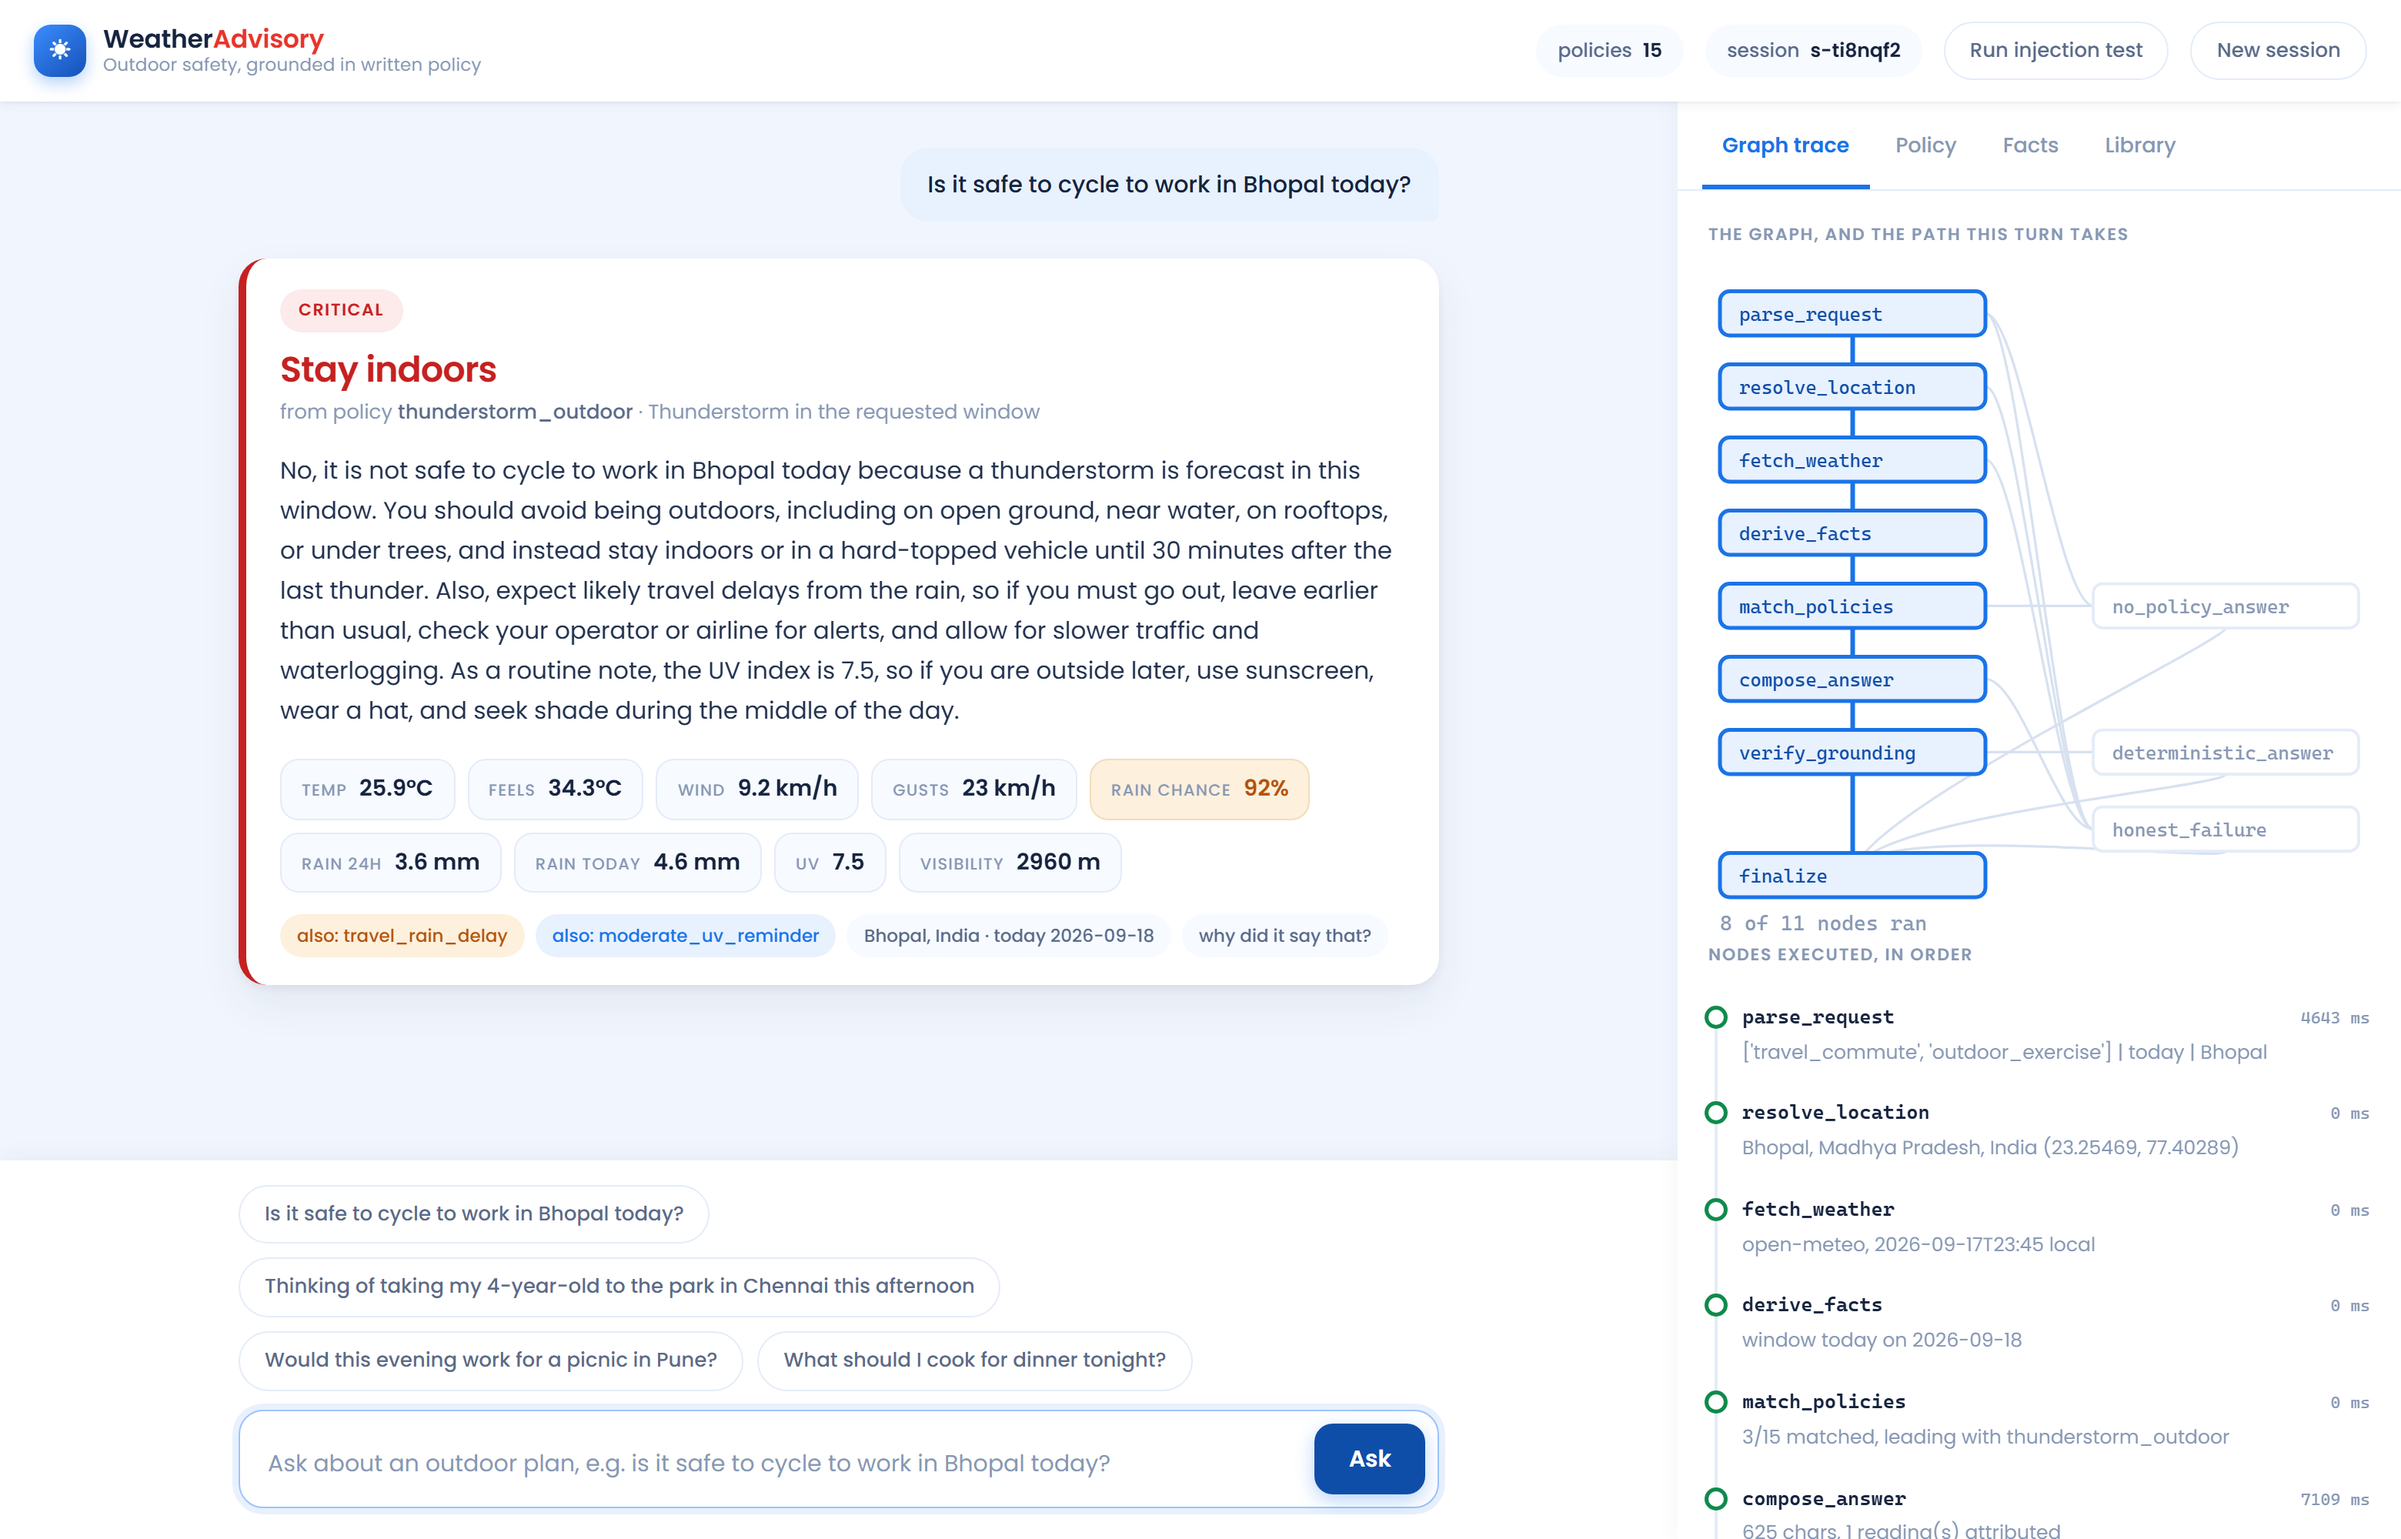
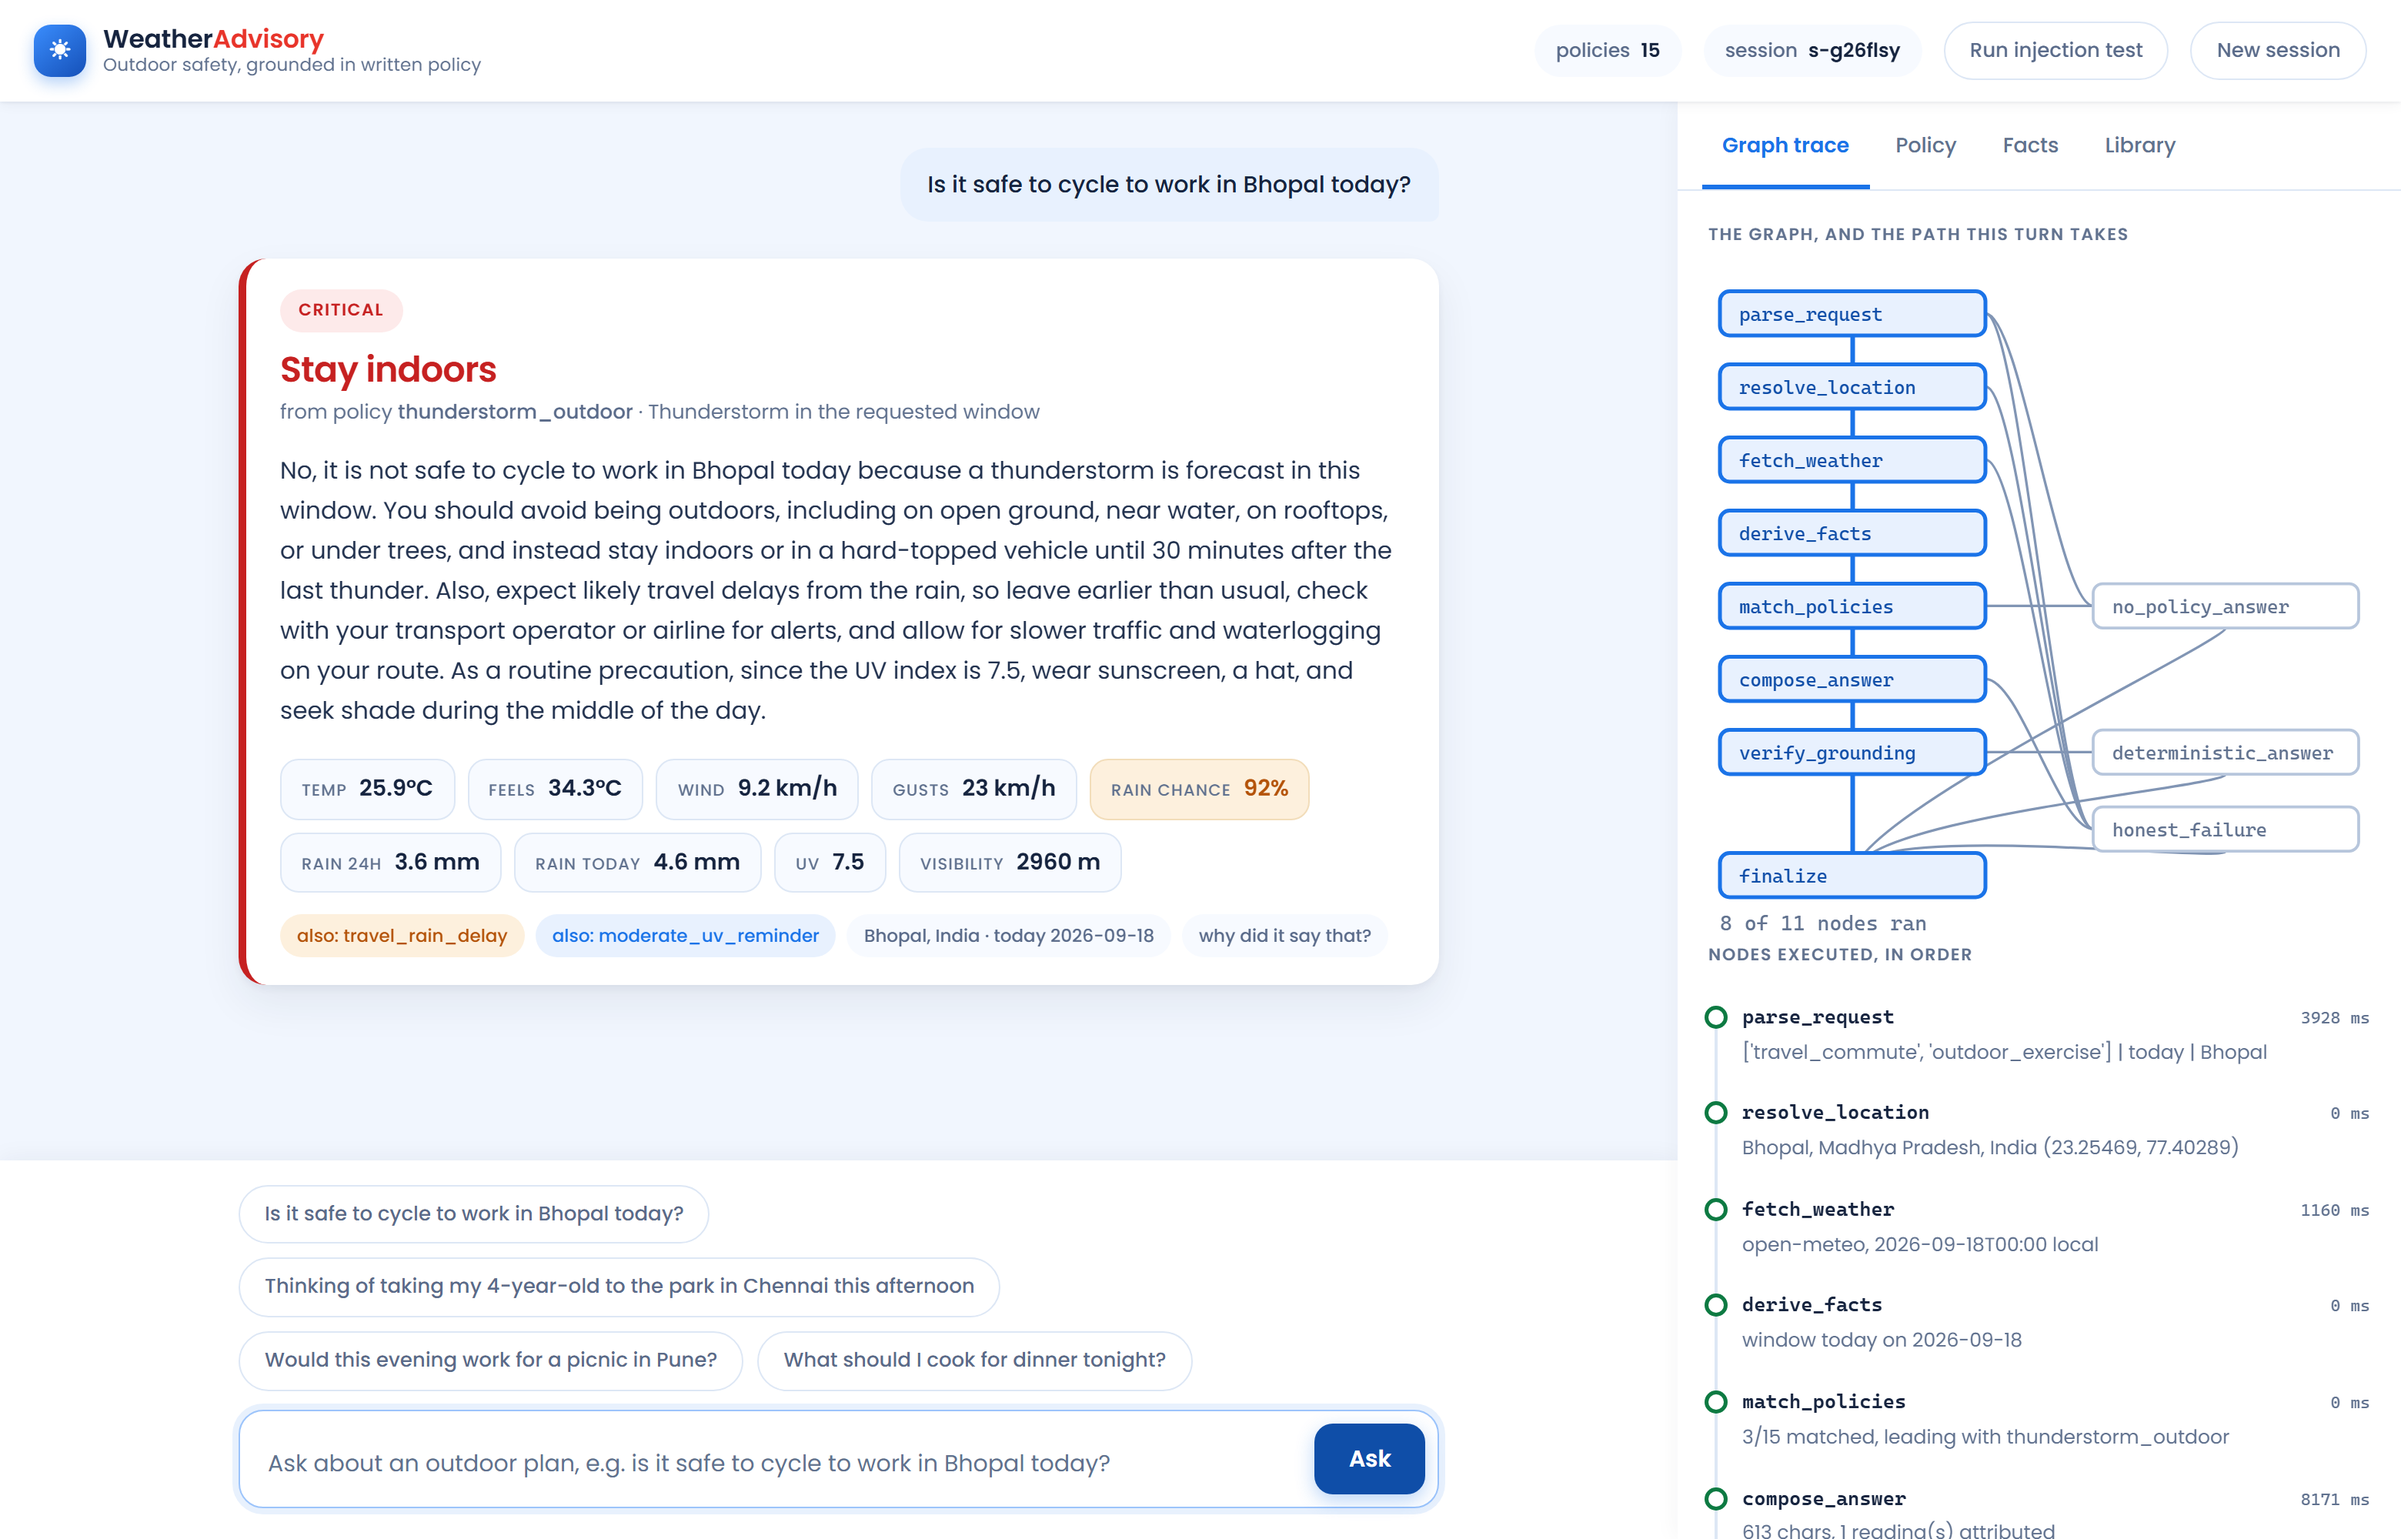
Raise text contrast to WCAG AA across the light theme
Measured rather than eyeballed, and six tokens were failing. The worst was the
neutral used for every caption, chip label, tab and graph node name, at 2.92:1
on white against a 4.5:1 requirement - it looked fine and was not.

Darkened within the same blue-grey family rather than toward grey, so the
MediBuddy neutral character survives:

  captions and labels   2.92 -> 4.87   (4.66 on the raised surface)
  PASS marker           4.41 -> 5.41
  unlit graph edge      1.32 -> 3.05
  unlit node outline    1.24 -> 1.73

Also firmed up the chart baseline, the window-band edges and the disabled send
button, which were decorative but too faint to read as anything.

Every token now meets 4.5:1 for text and 3:1 for graphical objects. The unlit
graph edges are deliberately the one judgement call: they are darker than is
strictly restful, because they carry structure, and they stay recessive against
the lit path through weight and hue rather than through being nearly invisible.

diff --git a/web/index.html b/web/index.html
@@ -14,17 +14,17 @@
   --bg: #f1f6fe;
   --surface: #ffffff;
   --raised: #f7faff;
-  --line: #e4ecf8;
+  --line: #dde7f5;
   --line-soft: #eef3fb;
   --text: #16243f;
   --muted: #5a6b8a;
-  --dim: #8798b4;
+  --dim: #61728f;
   --brand: #1a73e8;
   --brand-deep: #0f4ea8;
   --brand-wash: #e8f1fe;
   --coral: #e8342a;
   --info: #1a73e8;
-  --low: #0f8a4c;
+  --low: #0d7a42;
   --moderate: #b45309;
   --high: #d1500a;
   --critical: #c62121;
@@ -159,7 +159,7 @@ textarea::placeholder { color: var(--dim); }
   box-shadow: 0 4px 12px rgba(26,115,232,.3); transition: 140ms;
 }
 .send:hover:not(:disabled) { background: var(--brand-deep); }
-.send:disabled { background: #c6d6ec; box-shadow: none; cursor: not-allowed; }
+.send:disabled { background: #aebfd8; box-shadow: none; cursor: not-allowed; }
 .suggestions { display: flex; flex-wrap: wrap; gap: 9px; margin-bottom: 12px; }
 .suggestions button {
   border: 1px solid var(--line); background: var(--surface); color: var(--muted);
@@ -197,7 +197,7 @@ aside { display: grid; grid-template-rows: auto 1fr; min-height: 0; background: 
 }
 .step-row.branch::before { box-shadow: 0 0 0 2.5px var(--moderate); }
 .step-row.error::before  { box-shadow: 0 0 0 2.5px var(--critical); }
-.step-row.pending::before { box-shadow: 0 0 0 2.5px #c4d2e6; animation: pulse 1s infinite; }
+.step-row.pending::before { box-shadow: 0 0 0 2.5px #9badc9; animation: pulse 1s infinite; }
 .step-head { display: flex; align-items: baseline; justify-content: space-between; gap: 10px; }
 .step-head .sname { font-family: var(--mono); font-size: 13px; font-weight: 500; }
 .step-row.error .sname { color: var(--critical); }
@@ -209,7 +209,7 @@ aside { display: grid; grid-template-rows: auto 1fr; min-height: 0; background: 
 .fact { background: var(--raised); border: 1px solid var(--line); border-radius: 14px; padding: 12px 14px; }
 .fact .k { color: var(--dim); font-size: 10.5px; text-transform: uppercase; letter-spacing: .06em; font-weight: 600; }
 .fact .v { font-size: 20px; font-variant-numeric: tabular-nums; font-weight: 600; margin-top: 3px; }
-.fact .src { color: #a3b1c8; font-size: 11px; margin-top: 4px; line-height: 1.4; }
+.fact .src { color: var(--dim); font-size: 11px; margin-top: 4px; line-height: 1.4; }
 
 .policy { border: 1px solid var(--line); border-radius: 14px; margin-bottom: 11px; overflow: hidden; background: var(--surface); }
 .policy > summary { padding: 13px 15px; cursor: pointer; list-style: none; display: flex; gap: 10px; align-items: center; }
@@ -220,9 +220,9 @@ aside { display: grid; grid-template-rows: auto 1fr; min-height: 0; background: 
 .policy .guidance { color: var(--muted); font-size: 13.5px; margin: 12px 0; line-height: 1.6; }
 .cond { font-family: var(--mono); font-size: 12.5px; padding: 4px 0; color: var(--muted); }
 .cond.ok::before { content: "PASS "; color: var(--low); font-weight: 600; }
-.cond.no::before { content: "FAIL "; color: #b9c5d8; font-weight: 600; }
+.cond.no::before { content: "FAIL "; color: var(--dim); font-weight: 600; }
 .cond .group { color: var(--dim); }
-.indent { padding-left: 18px; border-left: 2px solid var(--line-soft); margin-left: 4px; }
+.indent { padding-left: 18px; border-left: 2px solid #dde7f5; margin-left: 4px; }
 
 .editor { display: grid; gap: 12px; }
 .editor textarea {
@@ -265,9 +265,9 @@ dialog::backdrop { background: rgba(22,36,63,.45); backdrop-filter: blur(2px); }
 .viz svg { display: block; width: 100%; overflow: visible; }
 .viz-wrap { position: relative; }
 .axis-label { font-family: var(--mono); font-size: 10px; fill: var(--dim); }
-.grid-line { stroke: var(--line); stroke-width: 1; }
-.window-band { fill: #1a73e8; opacity: .07; }
-.window-edge { stroke: #1a73e8; stroke-width: 1; opacity: .3; stroke-dasharray: 2 3; }
+.grid-line { stroke: #c9d6e8; stroke-width: 1; }
+.window-band { fill: #1a73e8; opacity: .09; }
+.window-edge { stroke: #1a73e8; stroke-width: 1; opacity: .45; stroke-dasharray: 2 3; }
 .threshold { stroke: #b45309; stroke-width: 1.5; stroke-dasharray: 5 3; }
 .threshold-label {
   font-family: var(--mono); font-size: 10.5px; fill: #b45309;
@@ -276,7 +276,7 @@ dialog::backdrop { background: rgba(22,36,63,.45); backdrop-filter: blur(2px); }
 .series-line { fill: none; stroke: #1a73e8; stroke-width: 2.5; stroke-linejoin: round; stroke-linecap: round; }
 .series-area { fill: #1a73e8; opacity: .1; }
 .breach { fill: #b45309; stroke: var(--surface); stroke-width: 2; }
-.hover-line { stroke: var(--dim); stroke-width: 1; opacity: .5; }
+.hover-line { stroke: var(--muted); stroke-width: 1; opacity: .6; }
 .hover-dot { fill: #1a73e8; stroke: var(--surface); stroke-width: 2; }
 .viz-tip {
   position: absolute; pointer-events: none; background: var(--text); color: #fff; border-radius: 9px;
@@ -285,7 +285,7 @@ dialog::backdrop { background: rgba(22,36,63,.45); backdrop-filter: blur(2px); }
 }
 .viz-tip b { font-variant-numeric: tabular-nums; }
 
-.gnode rect { fill: var(--surface); stroke: var(--line); stroke-width: 1.5; transition: fill 220ms, stroke 220ms; }
+.gnode rect { fill: var(--surface); stroke: #b7c6dc; stroke-width: 1.5; transition: fill 220ms, stroke 220ms; }
 .gnode text { font-family: var(--mono); font-size: 9.8px; fill: var(--dim); }
 .gnode.on rect { fill: var(--brand-wash); stroke: var(--brand); stroke-width: 2; }
 .gnode.on text { fill: var(--brand-deep); }
@@ -293,7 +293,7 @@ dialog::backdrop { background: rgba(22,36,63,.45); backdrop-filter: blur(2px); }
 .gnode.fail text { fill: var(--critical); }
 .gnode.pop rect { animation: nodePop 420ms cubic-bezier(.34,1.4,.5,1); transform-box: fill-box; transform-origin: center; }
 @keyframes nodePop { 0% { transform: scale(1); } 35% { transform: scale(1.04); } 100% { transform: scale(1); } }
-.gedge { fill: none; stroke: #d7e1f0; stroke-width: 1.3; transition: stroke 200ms; }
+.gedge { fill: none; stroke: #8195b4; stroke-width: 1.3; transition: stroke 200ms; }
 .gedge.on { stroke: var(--brand); stroke-width: 2.4; }
 .gedge.fail { stroke: var(--critical); stroke-width: 2.4; }
 .glegend { font-family: var(--mono); font-size: 10.8px; fill: var(--dim); }
